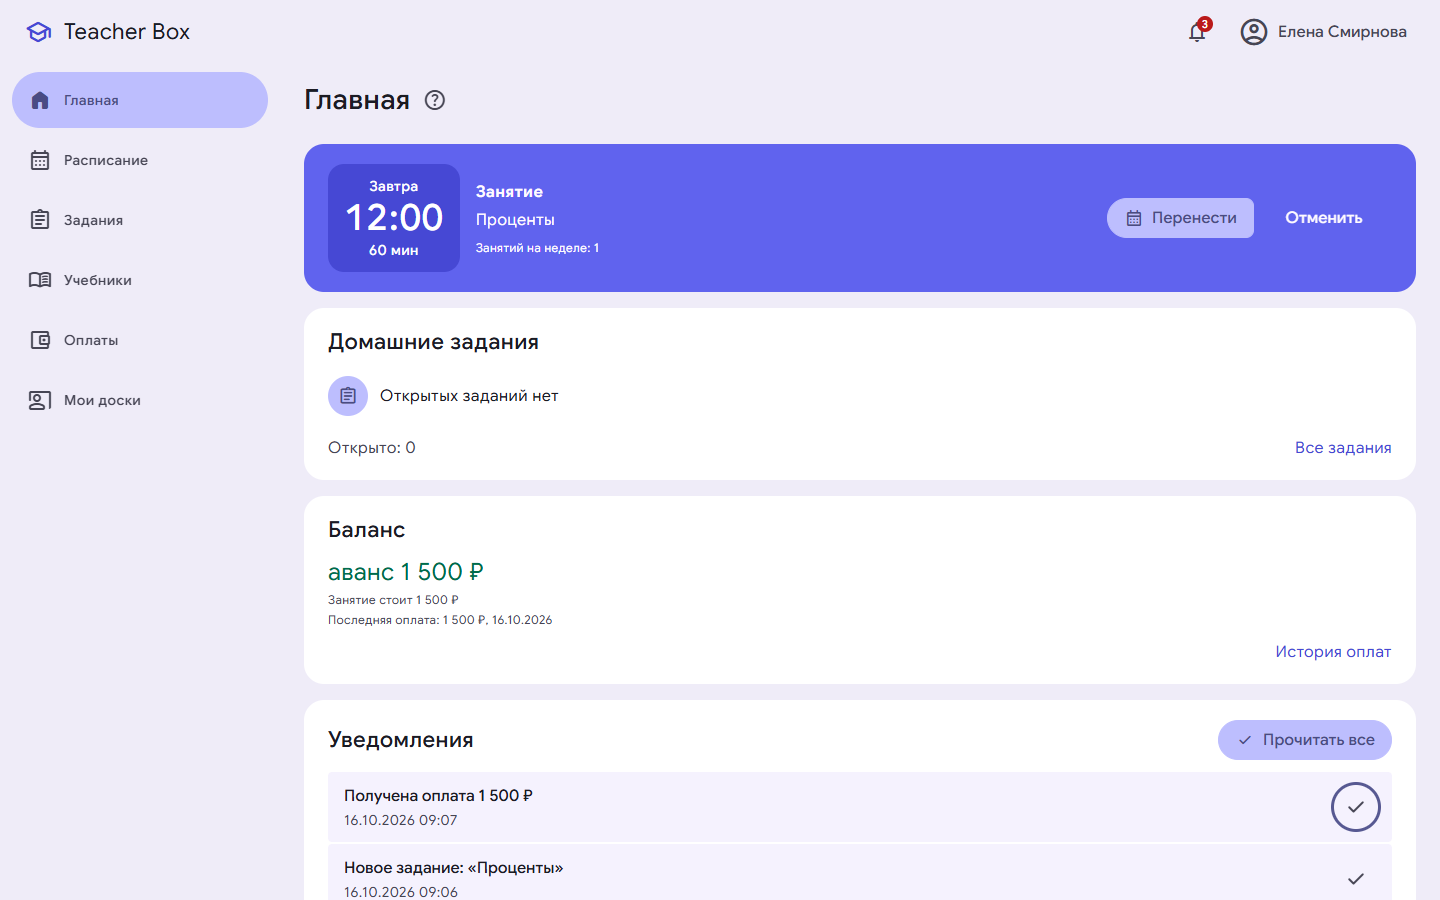
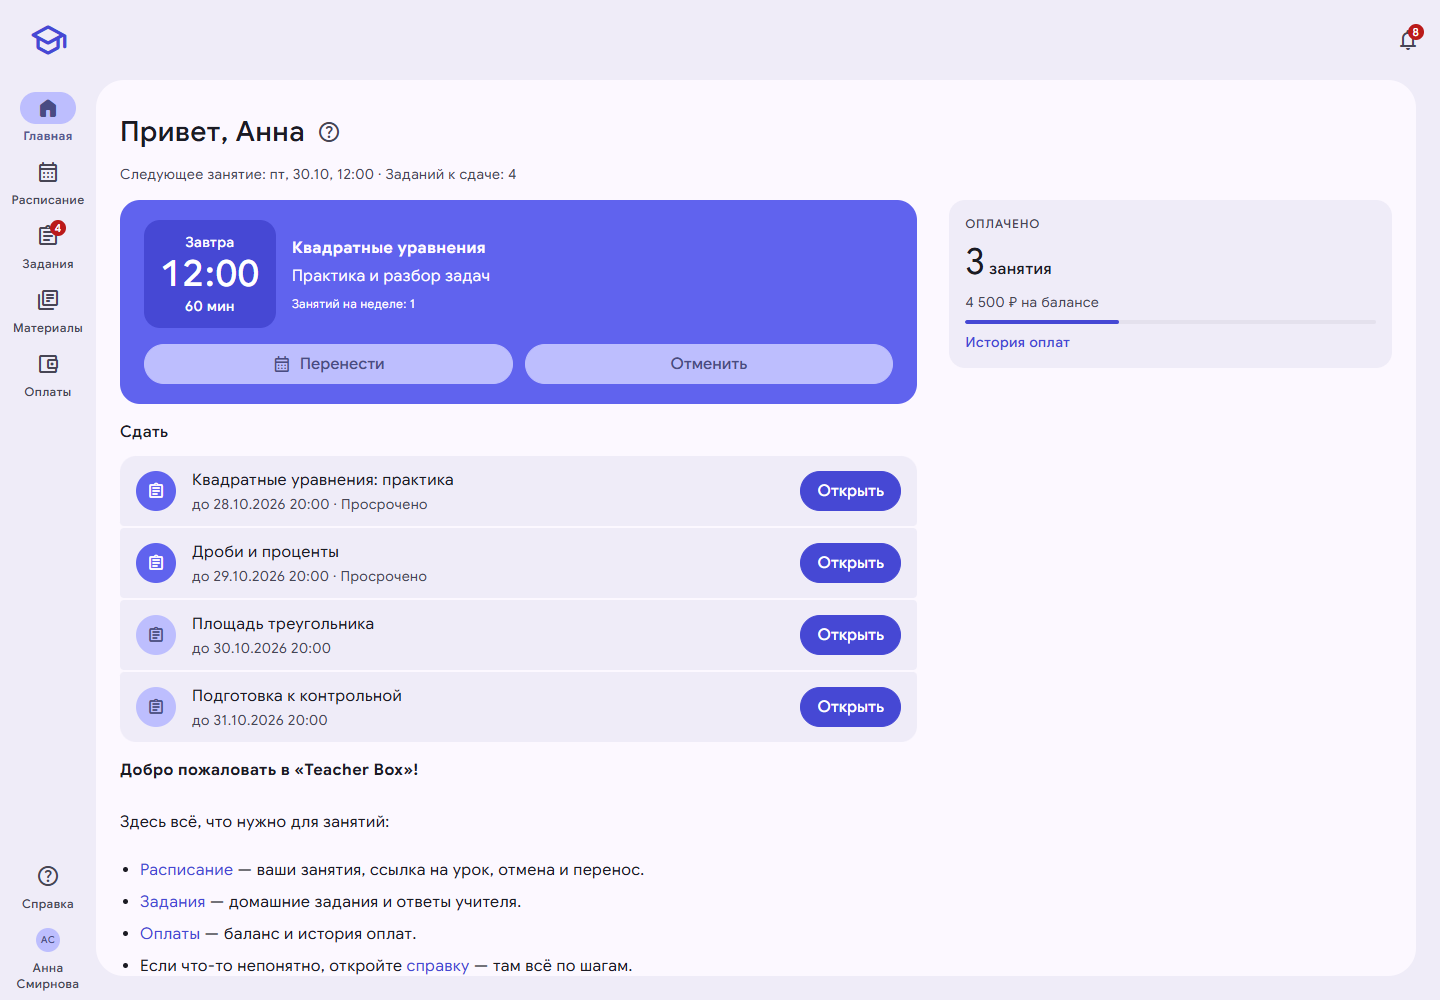
docs: refresh README screenshots for 0.41.0

diff --git a/docs/PLAN.md b/docs/PLAN.md
@@ -19,6 +19,14 @@ don't read them unless the task needs history.
   `archive/plans/vX.Y.Z.md`, add a row to `archive/plans/README.md`, move unfinished items to
   Backlog. This file keeps only unreleased work and the Backlog.
 
+## Repository maintenance
+
+### Stage 336 — GitHub releases and README screenshots
+
+- [x] **336.1** Publish missing GitHub releases for existing version tags using their
+  `CHANGELOG.md` entries; refresh the nine `docs/assets/readme/*.png` screenshots from a
+  disposable instance of v0.41.0 with fictional students and verify the README image links.
+
 ## Backlog
 
 Feature proposals with detailed plans (progress report, packages, invoices, parents, quizzes,

diff --git a/README.md b/README.md
@@ -99,6 +99,8 @@ curl -fsSL https://raw.githubusercontent.com/verhoturkin/teacher-box/main/script
 
 ## Скриншоты
 
+Интерфейс версии 0.41.0. Имена учеников и данные на снимках вымышлены.
+
 <details>
 <summary><b>Кабинет учителя</b></summary>
 
